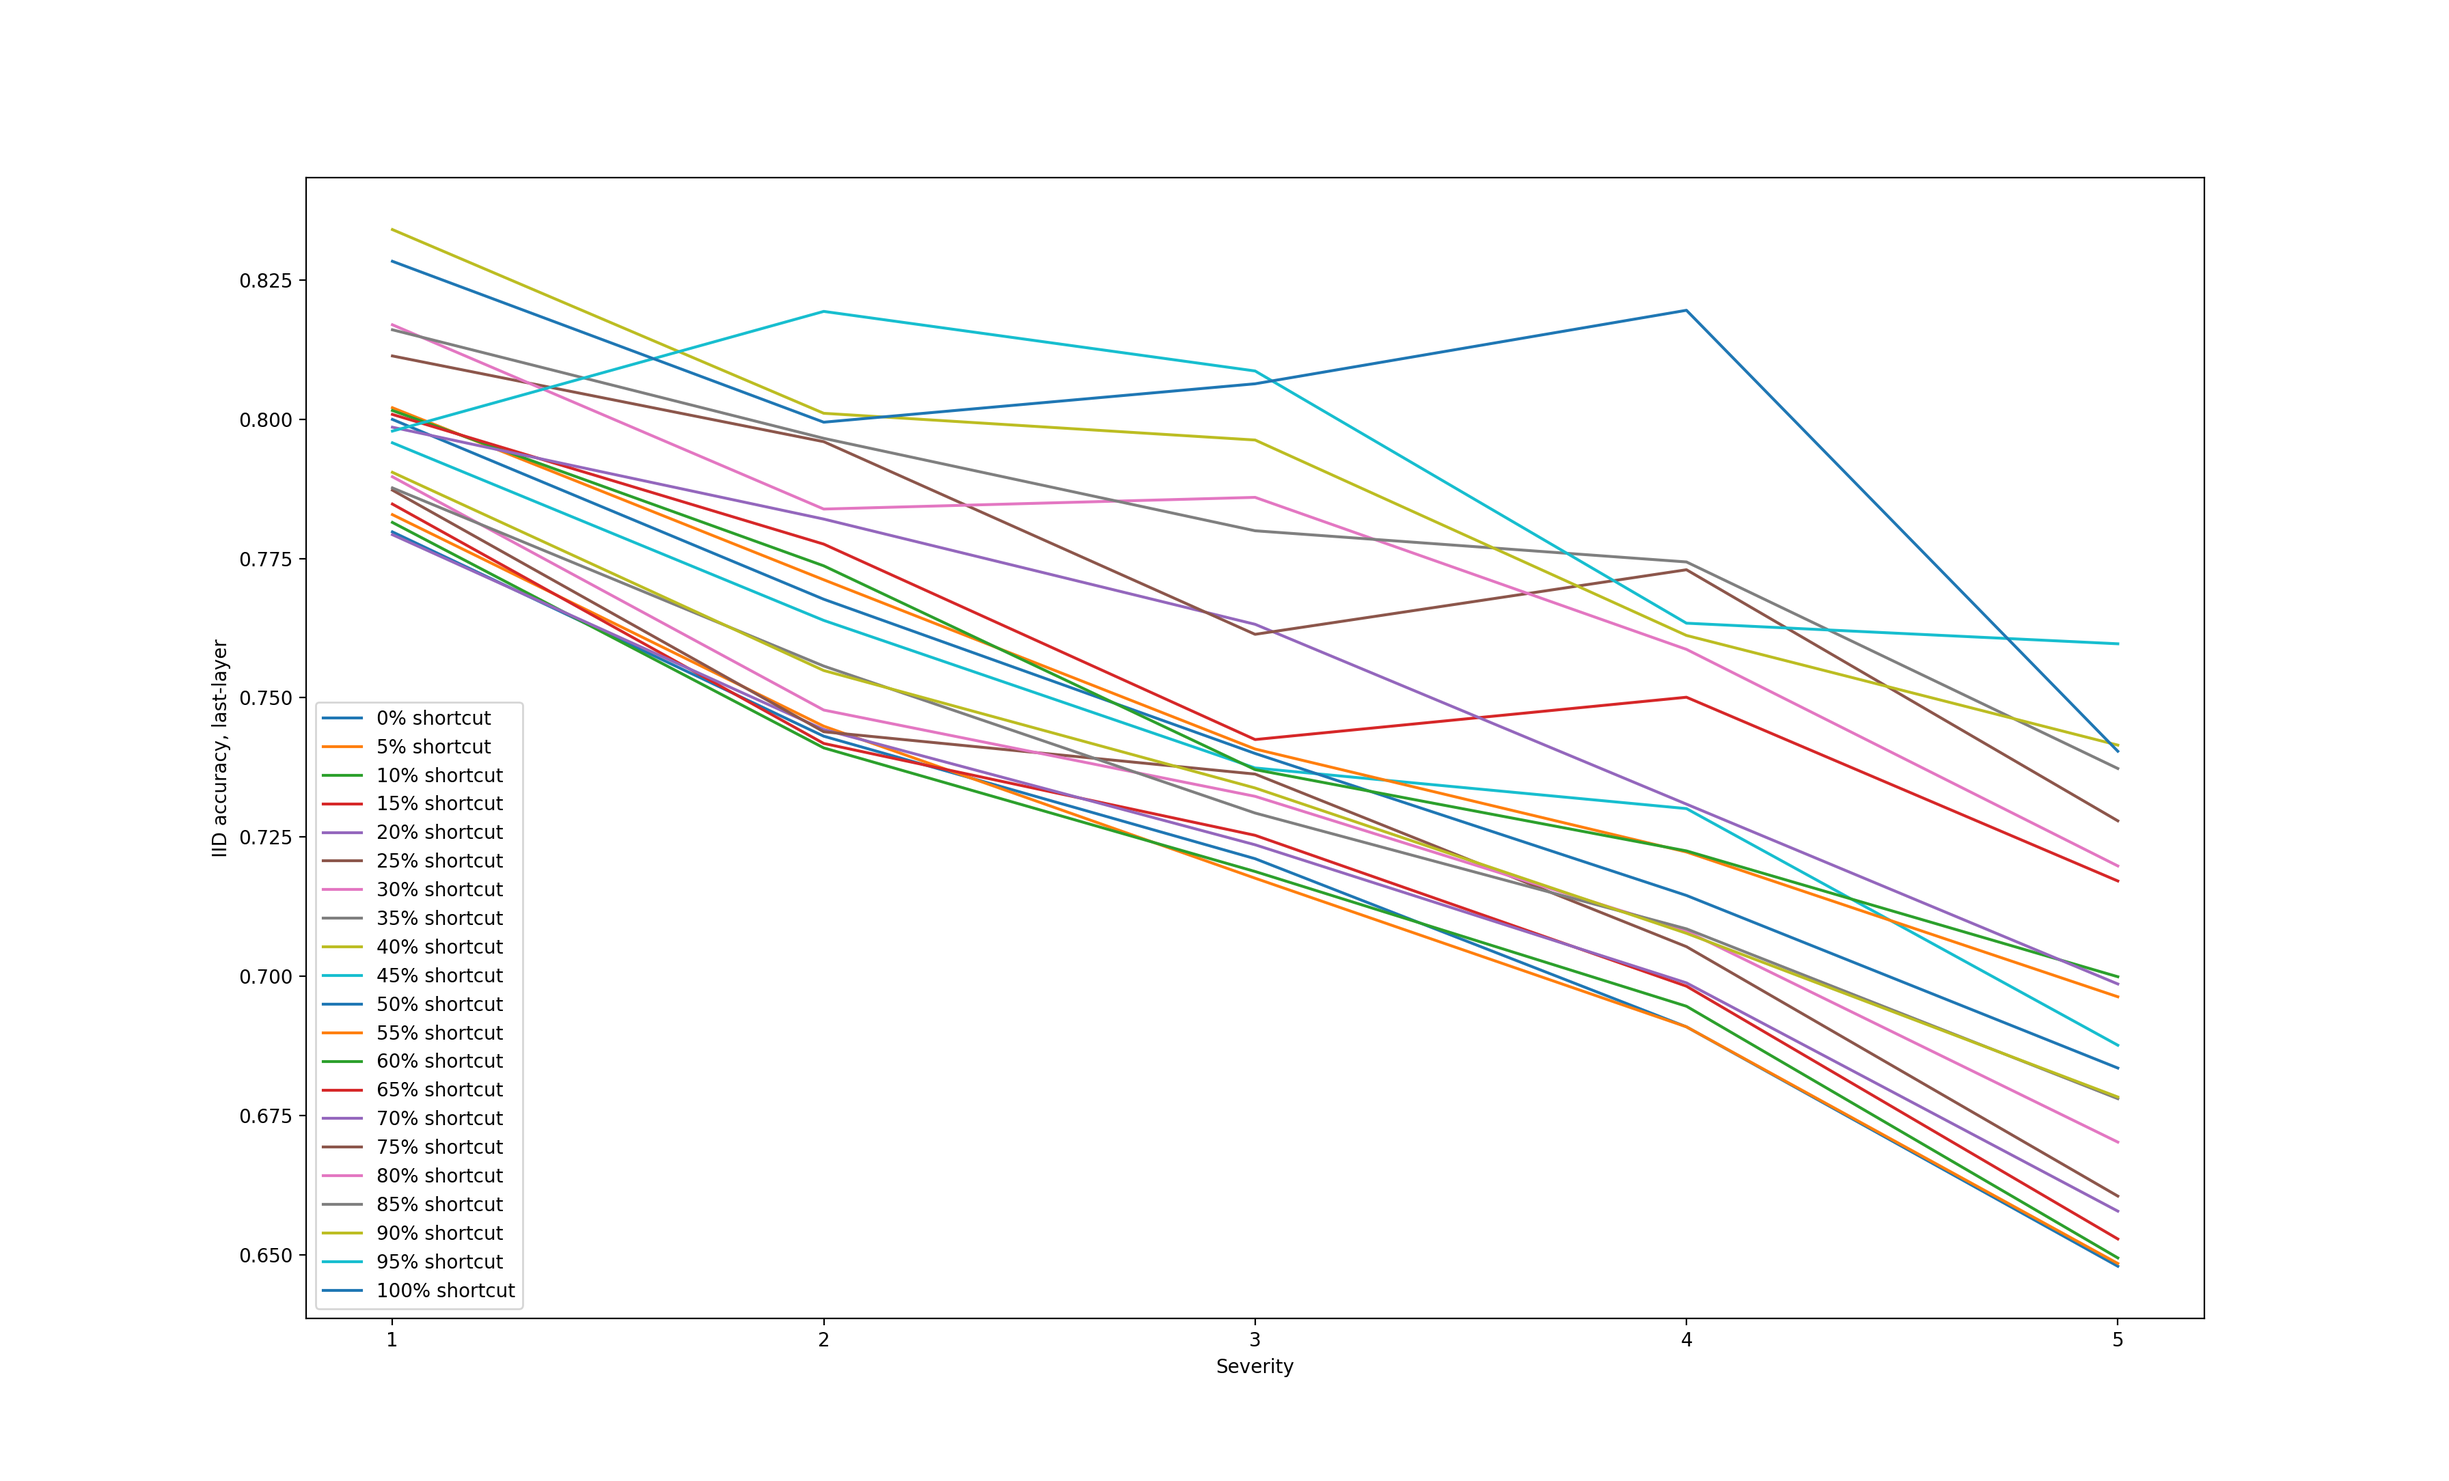
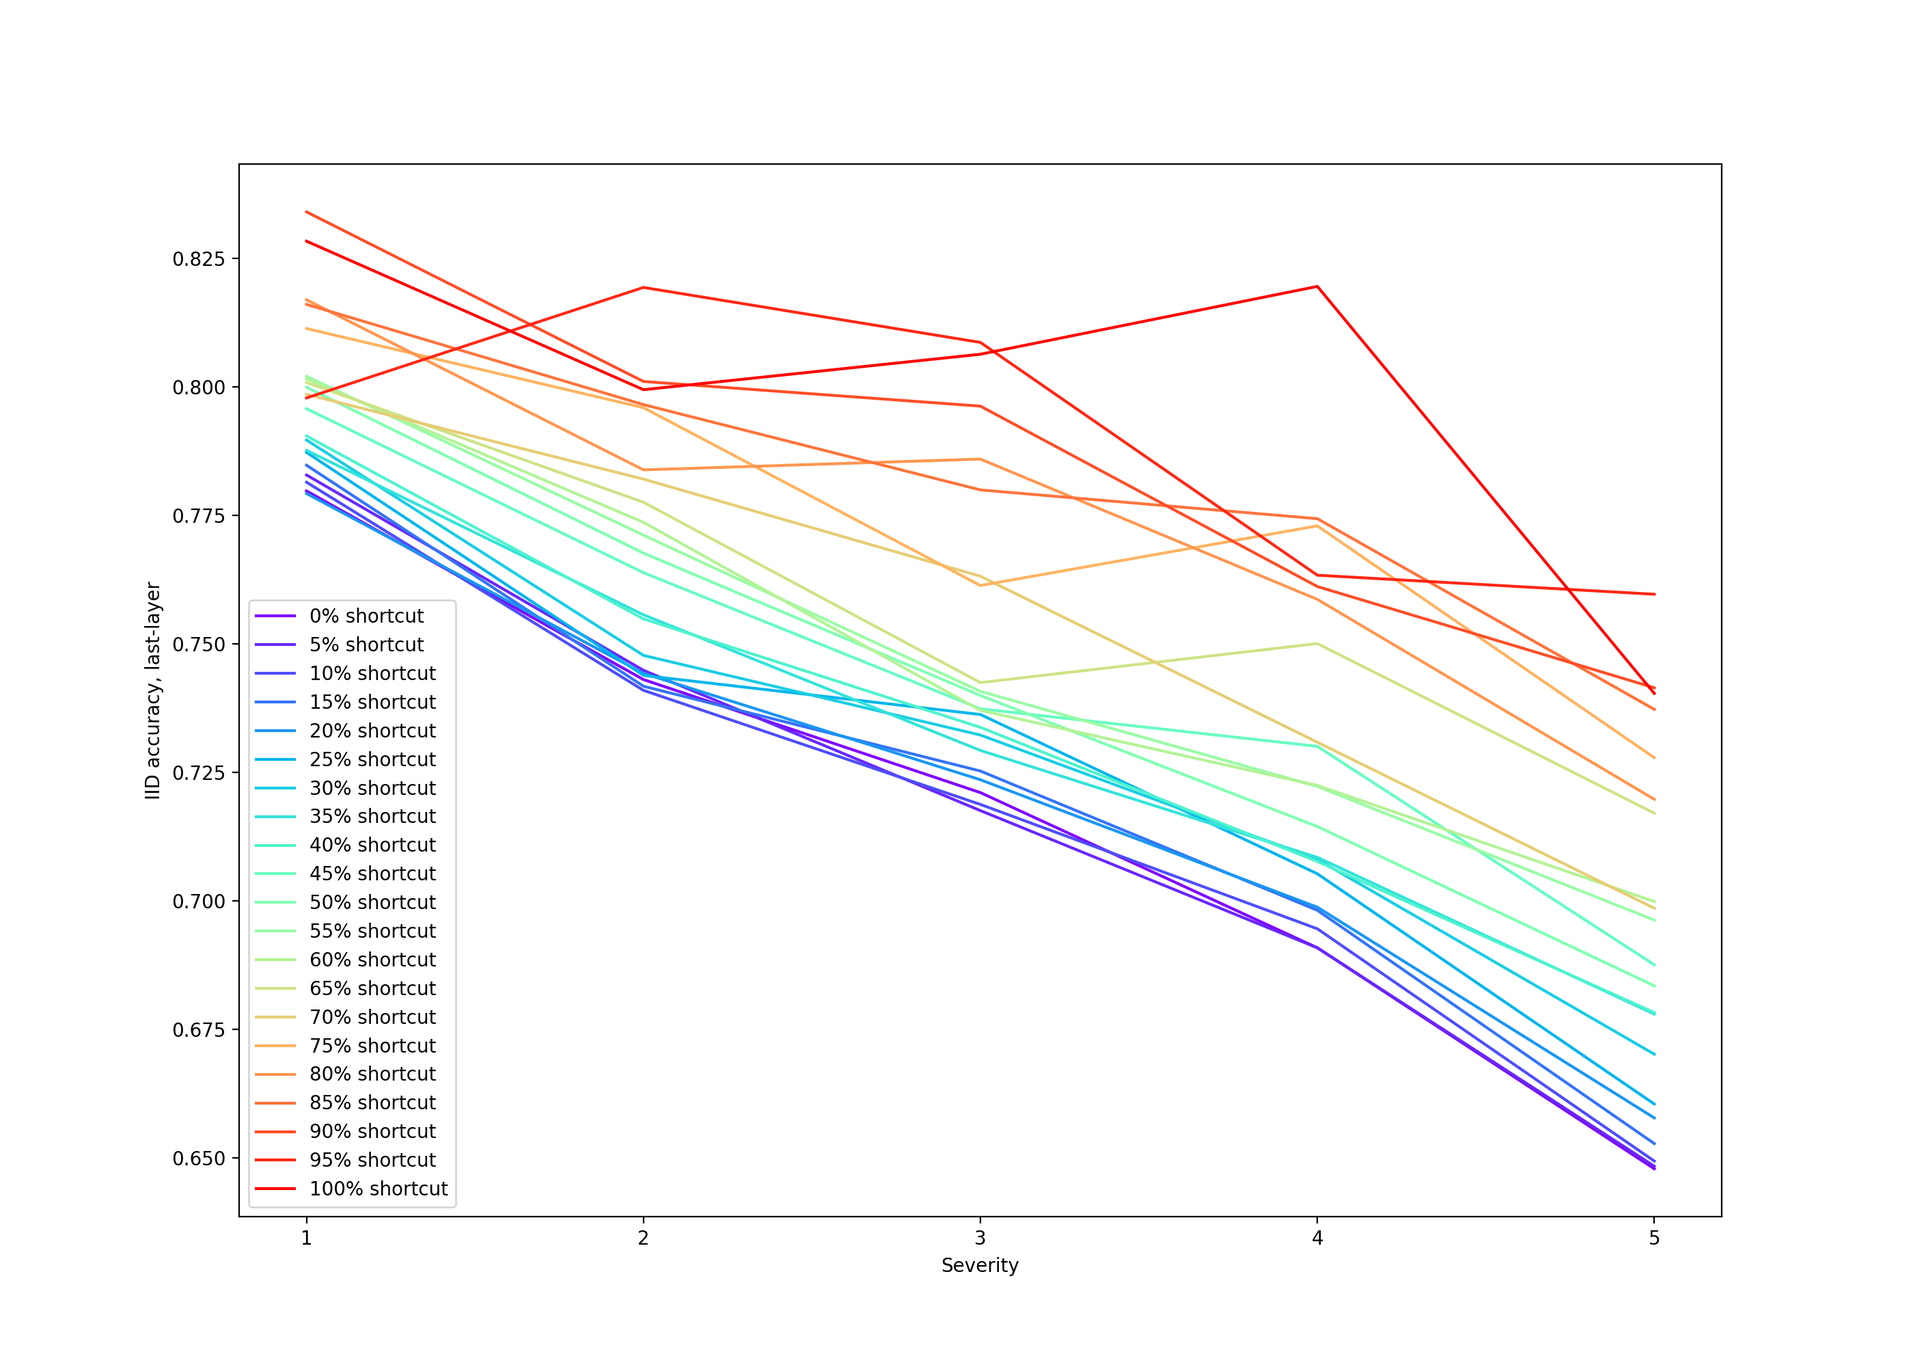
added sensitivity.py

diff --git a/transfer_learning/plot.py b/transfer_learning/plot.py
@@ -1,90 +1,21 @@
 import matplotlib.pyplot as plt
 import numpy as np
-import torch
-import torch.nn as nn
-import torchvision
-import torchvision.datasets as datasets
-from datasets import CIFAR10CS, transform_test_finetune
 
-device = "cuda" if torch.cuda.is_available() else "cpu"
-print(device)
+iid_fn = np.load('gaussian_blur/iid_fn.npy')
+ood_fn = np.load('gaussian_blur/ood_fn.npy')
+iid_ll = np.load('gaussian_blur/iid_ll.npy')
+ood_ll = np.load('gaussian_blur/ood_ll.npy')
 
-# ~ severity = int(os.getenv("SLURM_ARRAY_TASK_ID")) % 5 + 1
-# ~ shortcut = 5 * (int(os.getenv("SLURM_ARRAY_TASK_ID")) % 21)
+x = np.array(range(1, 6))
+color = plt.cm.rainbow(np.linspace(0, 1, 21))
 
-# ~ OOD_test_dataset = datasets.CIFAR10(root = 'data', train = False, download = True, transform = transform_test_finetune)
-# ~ OOD_test_loader = torch.utils.data.DataLoader(dataset = OOD_test_dataset, batch_size = 128)
-# ~ IID_test_dataset = CIFAR10CS('data', False, 'gaussian_blur', severity, shortcut, transform_test_finetune)
-# ~ IID_test_loader = torch.utils.data.DataLoader(dataset = IID_test_dataset, batch_size = 128)
-
-no_sc_dataset = datasets.CIFAR10(root = 'data', train = False, download = True, transform = transform_test_finetune)
-no_sc_loader = torch.utils.data.DataLoader(dataset = no_sc_dataset, batch_size = 128)
-full_sc_dataset = CIFAR10CS('data', False, 'gaussian_blur', 0, 100, transform_test_finetune)
-full_sc_loader = torch.utils.data.DataLoader(dataset = full_sc_dataset, batch_size = 128)
-
-model_fn = torchvision.models.resnet18()
-model_fn.fc = nn.Linear(512, 10)
-model_fn.to(device)
-model_ll = torchvision.models.resnet18()
-model_ll.fc = nn.Linear(512, 10)
-model_ll.to(device)
-
-fn = np.zeros([5, 21])
-ll = np.zeros([5, 21])
-
-for severity in range(1, 6):
-	for shortcut in range(0, 105, 5):
-		model_fn.load_state_dict(torch.load(f'gaussian_blur/{shortcut}-{severity}-fn.pt'))
-		model_fn.eval()
-		model_ll.load_state_dict(torch.load(f'gaussian_blur/{shortcut}-{severity}-ll.pt'))
-		model_ll.eval()
-		correct_fn = 0
-		correct_ll = 0
-		total = 0
-		for x, y in full_sc_loader:
-			x = x.to(device)
-			pred_fn = model_fn(x)
-			pred_ll = model_ll(x)
-			total += y.size(0)
-			correct_fn += (pred_fn.argmax(1) == y.to(device)).sum()
-			correct_ll += (pred_ll.argmax(1) == y.to(device)).sum()
-			x = x.to('cpu')
-		fn[severity - 1, shortcut // 5] += correct_fn / total
-		ll[severity - 1, shortcut // 5] += correct_ll / total
-		correct_fn = 0
-		correct_ll = 0
-		total = 0
-		for x, y in no_sc_loader:
-			x = x.to(device)
-			pred_fn = model_fn(x)
-			pred_ll = model_ll(x)
-			total += y.size(0)
-			correct_fn += (pred_fn.argmax(1) == y.to(device)).sum()
-			correct_ll += (pred_ll.argmax(1) == y.to(device)).sum()
-			x = x.to('cpu')
-		fn[severity - 1, shortcut // 5] -= correct_fn / total
-		ll[severity - 1, shortcut // 5] -= correct_ll / total
-		
-x = np.array(range(0, 105, 5))
-
-for i in range(1, 6):
-	plt.plot(x, fn[i - 1], label = f'Severity {i}, full-network')
-	plt.plot(x, ll[i - 1], label = f'Severity {i}, last-layer')
-
-# ~ iid_fn = np.load('gaussian_blur/iid_fn.npy')
-# ~ ood_fn = np.load('gaussian_blur/ood_fn.npy')
-# ~ iid_ll = np.load('gaussian_blur/iid_ll.npy')
-# ~ ood_ll = np.load('gaussian_blur/ood_ll.npy')
-
-# ~ x = np.array(range(1, 6))
-
-# ~ for i in range(21):
-	# ~ plt.plot(x, ood_ll[i], label = f'{5 * i}% shortcut')
+for i in range(21):
+	plt.plot(x, ood_fn[i], label = f'{5 * i}% shortcut', c = color[i])
 
 plt.xticks(x)
-plt.xlabel('Sensitivity to Shortcuts')
-plt.ylabel('Shortcut Level')
+plt.xlabel('Severity')
+plt.ylabel('OOD accuracy, full-network')
 plt.legend()
 fig = plt.gcf()
 fig.set_size_inches(14, 10)
-fig.savefig('sensitivity.png', dpi = 200)
+fig.savefig('ood_fn.png', dpi = 200)

diff --git a/transfer_learning/sensitivity.py b/transfer_learning/sensitivity.py
@@ -1,0 +1,70 @@
+import matplotlib.pyplot as plt
+import numpy as np
+import torch
+import torch.nn as nn
+import torchvision
+import torchvision.datasets as datasets
+from datasets import CIFAR10CS, transform_test_finetune
+
+device = "cuda" if torch.cuda.is_available() else "cpu"
+print(device)
+
+severity = int(os.getenv("SLURM_ARRAY_TASK_ID")) % 5 + 1
+shortcut = 5 * (int(os.getenv("SLURM_ARRAY_TASK_ID")) % 21)
+
+print(f'Shortcut: {shortcut}, Severity: {severity}')
+
+no_sc_dataset = datasets.CIFAR10(root = 'data', train = False, download = True, transform = transform_test_finetune)
+no_sc_loader = torch.utils.data.DataLoader(dataset = no_sc_dataset, batch_size = 128)
+full_sc_dataset = CIFAR10CS('data', False, 'gaussian_blur', 0, 100, transform_test_finetune)
+full_sc_loader = torch.utils.data.DataLoader(dataset = full_sc_dataset, batch_size = 128)
+
+model_fn = torchvision.models.resnet18()
+model_fn.fc = nn.Linear(512, 10)
+model_fn.to(device)
+model_ll = torchvision.models.resnet18()
+model_ll.fc = nn.Linear(512, 10)
+model_ll.to(device)
+
+model_fn.load_state_dict(torch.load(f'gaussian_blur/{shortcut}-{severity}-fn.pt'))
+model_fn.eval()
+model_ll.load_state_dict(torch.load(f'gaussian_blur/{shortcut}-{severity}-ll.pt'))
+model_ll.eval()
+
+fn = 0
+ll = 0
+
+correct_fn = 0
+correct_ll = 0
+total = 0
+for x, y in full_sc_loader:
+	x = x.to(device)
+	pred_fn = model_fn(x)
+	pred_ll = model_ll(x)
+	total += y.size(0)
+	correct_fn += (pred_fn.argmax(1) == y.to(device)).sum()
+	correct_ll += (pred_ll.argmax(1) == y.to(device)).sum()
+	x = x.to('cpu')
+fn += correct_fn / total
+ll += correct_ll / total
+correct_fn = 0
+correct_ll = 0
+total = 0
+for x, y in no_sc_loader:
+	x = x.to(device)
+	pred_fn = model_fn(x)
+	pred_ll = model_ll(x)
+	total += y.size(0)
+	correct_fn += (pred_fn.argmax(1) == y.to(device)).sum()
+	correct_ll += (pred_ll.argmax(1) == y.to(device)).sum()
+	x = x.to('cpu')
+fn -= correct_fn / total
+ll -= correct_ll / total
+print(f'full-network: {fn}')
+print(f'last-layer: {ll}')
+		
+# ~ x = np.array(range(0, 105, 5))
+
+# ~ for i in range(1, 6):
+	# ~ plt.plot(x, fn[i - 1], label = f'Severity {i}, full-network')
+	# ~ plt.plot(x, ll[i - 1], label = f'Severity {i}, last-layer')
